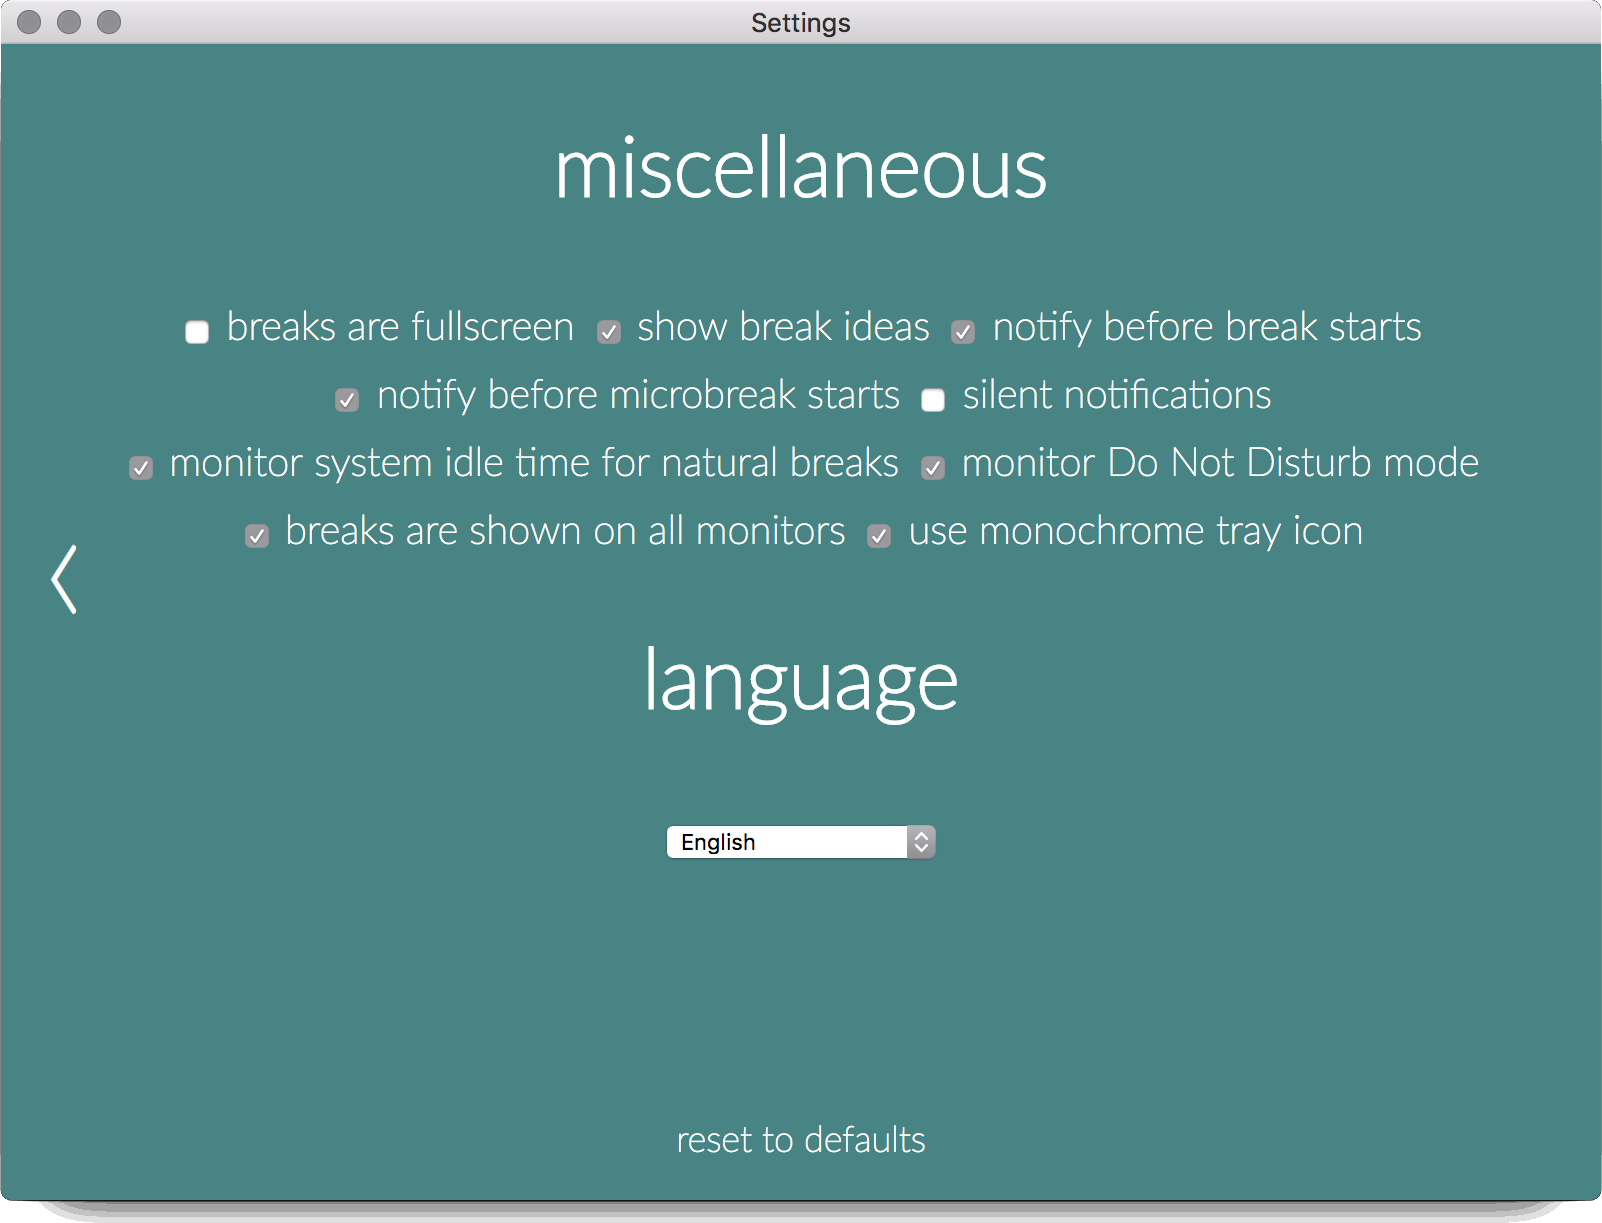
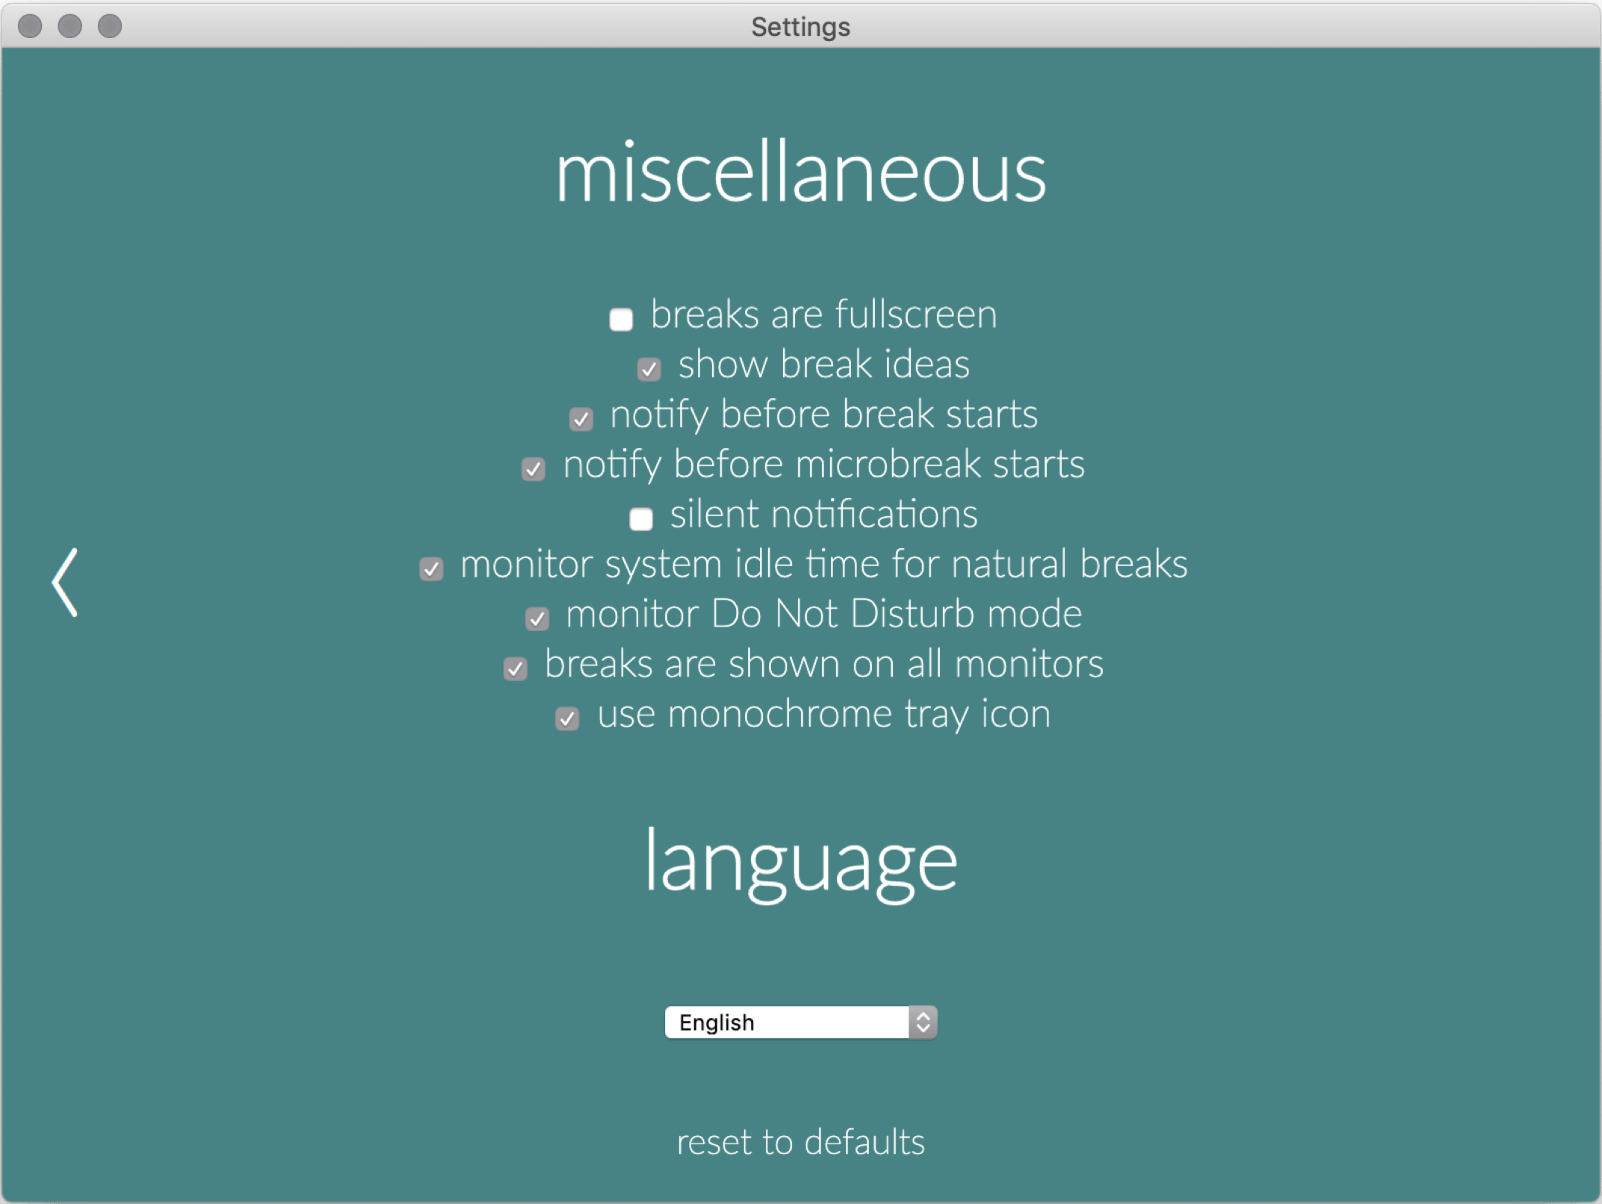
Make settings 3 more readable (#482)

diff --git a/app/settings3.html b/app/settings3.html
@@ -7,45 +7,47 @@
   <body>
     <div class="settings">
       <h2 data-i18next="settings3.miscellaneous"></h2>
-      <div class="enabled">
-        <input type="checkbox" value="fullscreen" class="enable" id="breaksAreFullscreen">
-        <label data-i18next="settings3.breaksAreFullscreen" for="breaksAreFullscreen"></label>
-      </div>
-      <div class="enabled">
-        <input type="checkbox" value="ideas" class="enable" id="showBreakIdeas">
-        <label data-i18next="settings3.showBreakIdeas" for="showBreakIdeas"></label>
-      </div>
-      <div class="enabled">
-        <input type="checkbox" value="breakNotification" class="enable" id="notifyBeforeBreakStarts">
-        <label data-i18next="settings3.notifyBeforeBreakStarts" for="notifyBeforeBreakStarts"></label>
-      </div>
-      <div class="enabled">
-        <input type="checkbox" value="microbreakNotification" class="enable" id="notifyBeforeMicrobreakStarts">
-        <label data-i18next="settings3.notifyBeforeMicrobreakStarts" for="notifyBeforeMicrobreakStarts"></label>
-      </div>
-      <div class="enabled">
-        <input type="checkbox" value="silentNotifications" class="enable" id="silentNotifications">
-        <label data-i18next="settings3.silentNotifications" for="silentNotifications"></label>
-      </div>
-      <div class="enabled">
-        <input type="checkbox" value="naturalBreaks" class="enable" id="monitorIdleTime">
-        <label data-i18next="settings3.monitorIdleTime" for="monitorIdleTime"></label>
-      </div>
-      <div class="enabled linux-hidden">
-        <input type="checkbox" value="monitorDnd" class="enable" id="monitorDnd">
-        <label data-i18next="settings3.monitorDnd" for="monitorDnd"></label>
-      </div>
-      <div class="enabled">
-        <input type="checkbox" value="allScreens" class="enable" id="showOnAllScreens">
-        <label data-i18next="settings3.showOnAllScreens" for="showOnAllScreens"></label>
-      </div>
-      <div class="enabled">
-        <input type="checkbox" value="useMonochromeTrayIcon" class="enable" id="useMonochromeTrayIcon">
-        <label data-i18next="settings3.useMonochromeTrayIcon" for="useMonochromeTrayIcon"></label>
-      </div>
-      <div class="enabled darwin-hidden">
-        <input type="checkbox" value="useMonochromeInvertedTrayIcon" class="enable" id="useMonochromeInvertedTrayIcon">
-        <label data-i18next="settings3.useMonochromeInvertedTrayIcon" for="useMonochromeInvertedTrayIcon"></label>
+      <div class="settings-list">
+        <div class="enabled">
+          <input type="checkbox" value="fullscreen" class="enable" id="breaksAreFullscreen">
+          <label data-i18next="settings3.breaksAreFullscreen" for="breaksAreFullscreen"></label>
+        </div>
+        <div class="enabled">
+          <input type="checkbox" value="ideas" class="enable" id="showBreakIdeas">
+          <label data-i18next="settings3.showBreakIdeas" for="showBreakIdeas"></label>
+        </div>
+        <div class="enabled">
+          <input type="checkbox" value="breakNotification" class="enable" id="notifyBeforeBreakStarts">
+          <label data-i18next="settings3.notifyBeforeBreakStarts" for="notifyBeforeBreakStarts"></label>
+        </div>
+        <div class="enabled">
+          <input type="checkbox" value="microbreakNotification" class="enable" id="notifyBeforeMicrobreakStarts">
+          <label data-i18next="settings3.notifyBeforeMicrobreakStarts" for="notifyBeforeMicrobreakStarts"></label>
+        </div>
+        <div class="enabled">
+          <input type="checkbox" value="silentNotifications" class="enable" id="silentNotifications">
+          <label data-i18next="settings3.silentNotifications" for="silentNotifications"></label>
+        </div>
+        <div class="enabled">
+          <input type="checkbox" value="naturalBreaks" class="enable" id="monitorIdleTime">
+          <label data-i18next="settings3.monitorIdleTime" for="monitorIdleTime"></label>
+        </div>
+        <div class="enabled linux-hidden">
+          <input type="checkbox" value="monitorDnd" class="enable" id="monitorDnd">
+          <label data-i18next="settings3.monitorDnd" for="monitorDnd"></label>
+        </div>
+        <div class="enabled">
+          <input type="checkbox" value="allScreens" class="enable" id="showOnAllScreens">
+          <label data-i18next="settings3.showOnAllScreens" for="showOnAllScreens"></label>
+        </div>
+        <div class="enabled">
+          <input type="checkbox" value="useMonochromeTrayIcon" class="enable" id="useMonochromeTrayIcon">
+          <label data-i18next="settings3.useMonochromeTrayIcon" for="useMonochromeTrayIcon"></label>
+        </div>
+        <div class="enabled darwin-hidden">
+          <input type="checkbox" value="useMonochromeInvertedTrayIcon" class="enable" id="useMonochromeInvertedTrayIcon">
+          <label data-i18next="settings3.useMonochromeInvertedTrayIcon" for="useMonochromeInvertedTrayIcon"></label>
+        </div>
       </div>
       <h2 data-i18next="settings3.language"></h2>
       <div class="">

diff --git a/app/css/app.css b/app/css/app.css
@@ -124,6 +124,11 @@ a {
   padding-right: 30px;
 }
 
+.settings-list {
+  display: flex;
+  flex-direction: column;
+}
+
 a {
   color: #fff;
 }

diff --git a/CHANGELOG.md b/CHANGELOG.md
@@ -15,6 +15,7 @@ and this project adheres to [Semantic Versioning](http://semver.org/).
 - keep the focus on active window during breaks
 - smaller font size for longer microbreak ideas
 - Improved grammar of microbreak ideas
+- display checkbox list vertically in settings screen 3
 
 ### Fixed
 - Ctrl+X global shortcut not being released after `Reset breaks` and `Skip to`

diff --git a/README.md b/README.md
@@ -212,6 +212,7 @@ You can copy debug information to clipboard.
 - ValarMarkhulis [ValarMarkhulis](https://github.com/ValarMarkhulis)
 - Lucas Costi, [@lucascosti](https://github.com/lucascosti)
 - Luke Arms, [lkrms](https://github.com/lkrms)
+- Chris Heyer, [@cheyer](https://github.com/cheyer)
 
 ### Humans and Tools
  - https://www.icoconverter.com/ to generate .ico
